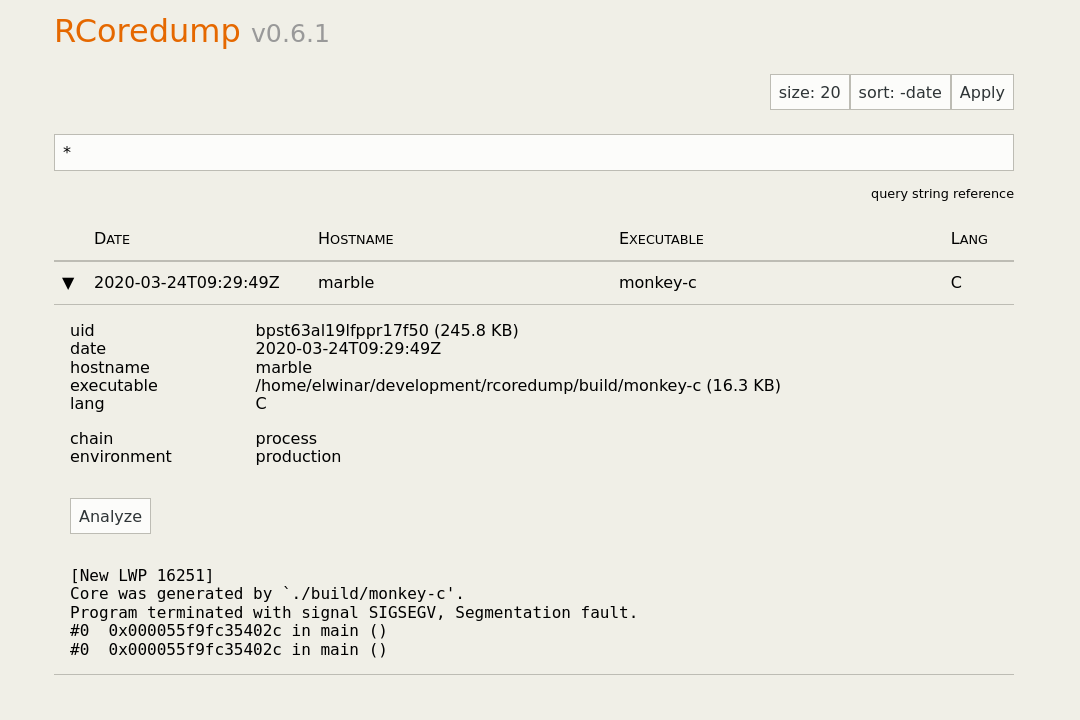
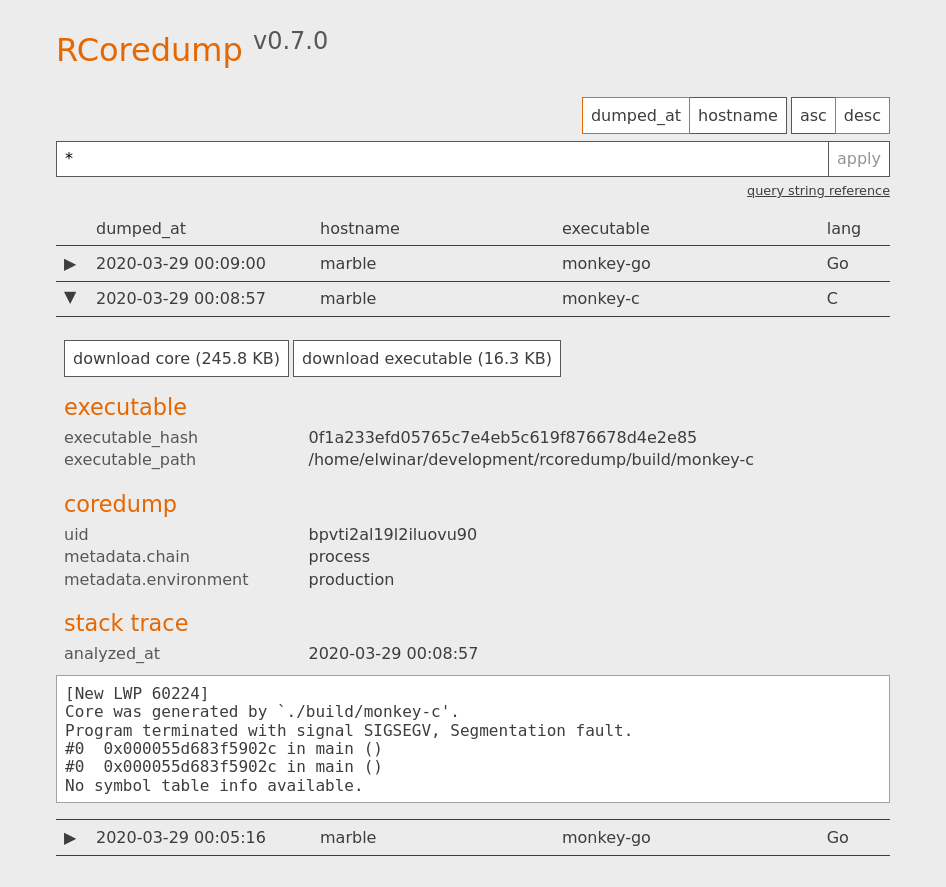
Tweak the background colors for less uglyness

diff --git a/web/App.scss b/web/App.scss
@@ -6,9 +6,8 @@ $secondary-light: #00C4E6;
 $gray: #575753;
 $gray-light: #A3A39B;
 $gray-dark: #3D3D3A;
-$background: #F0EFE6;
-$background-light: #FCFBF2;
-$background-dark: #A3A39B;
+$background: #ECECEC;
+$background-light: #FFFFFF;
 
 body {
 	background: $background;
@@ -56,7 +55,7 @@ input, button {
 
 input[type="text"], .Radio, button, .Button {
 	background: $background-light;
-	border-color: $background-dark;
+	border-color: $gray;
 	border-radius: 0;
 	border-style: solid;
 	border-width: 1px;
@@ -157,7 +156,7 @@ input[type="text"], .Radio {
 	}
 
 	tr {
-		border-bottom: 1px solid $background-dark;
+		border-bottom: 1px solid $gray-dark;
 
 		&[active] > td:first-child {
 			transform: rotate(90deg);
@@ -205,6 +204,7 @@ input[type="text"], .Radio {
 
 	pre {
 		background: $background-light;
+		border: 1px solid $gray-light;
 		margin: -0.5em -0.5em 0.5em;
 		padding: 0.5em;
 		white-space: pre-wrap;
